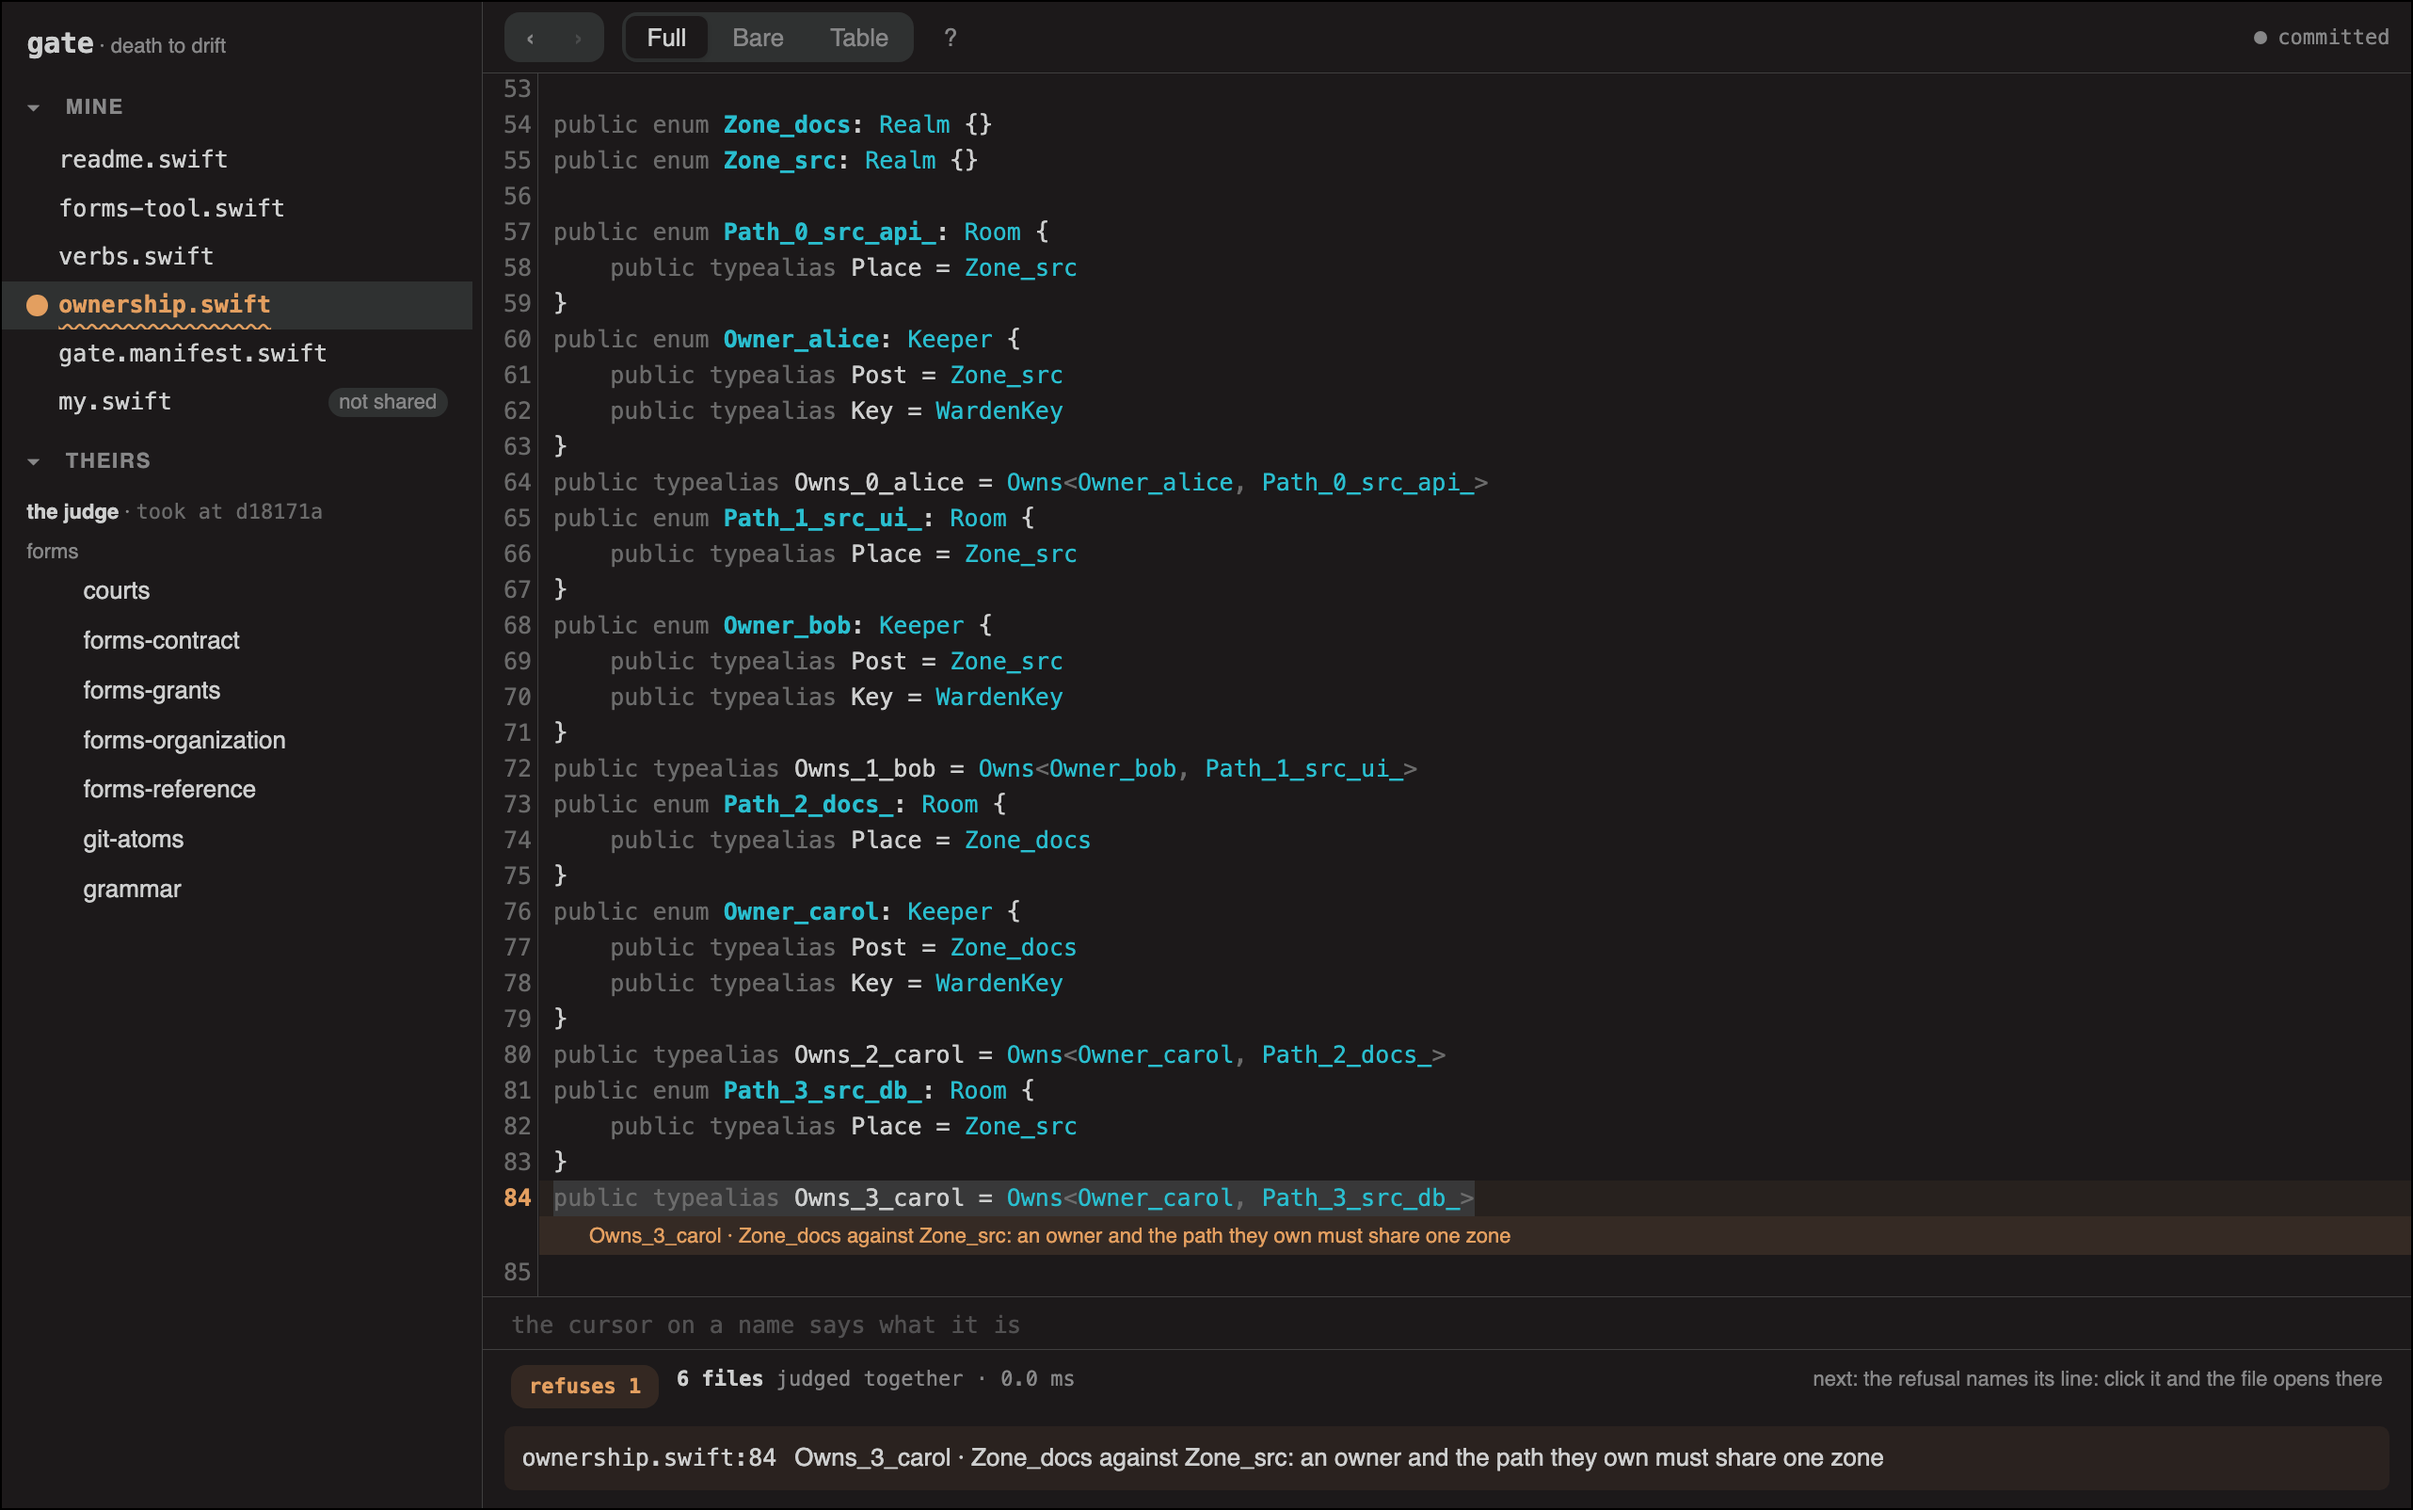
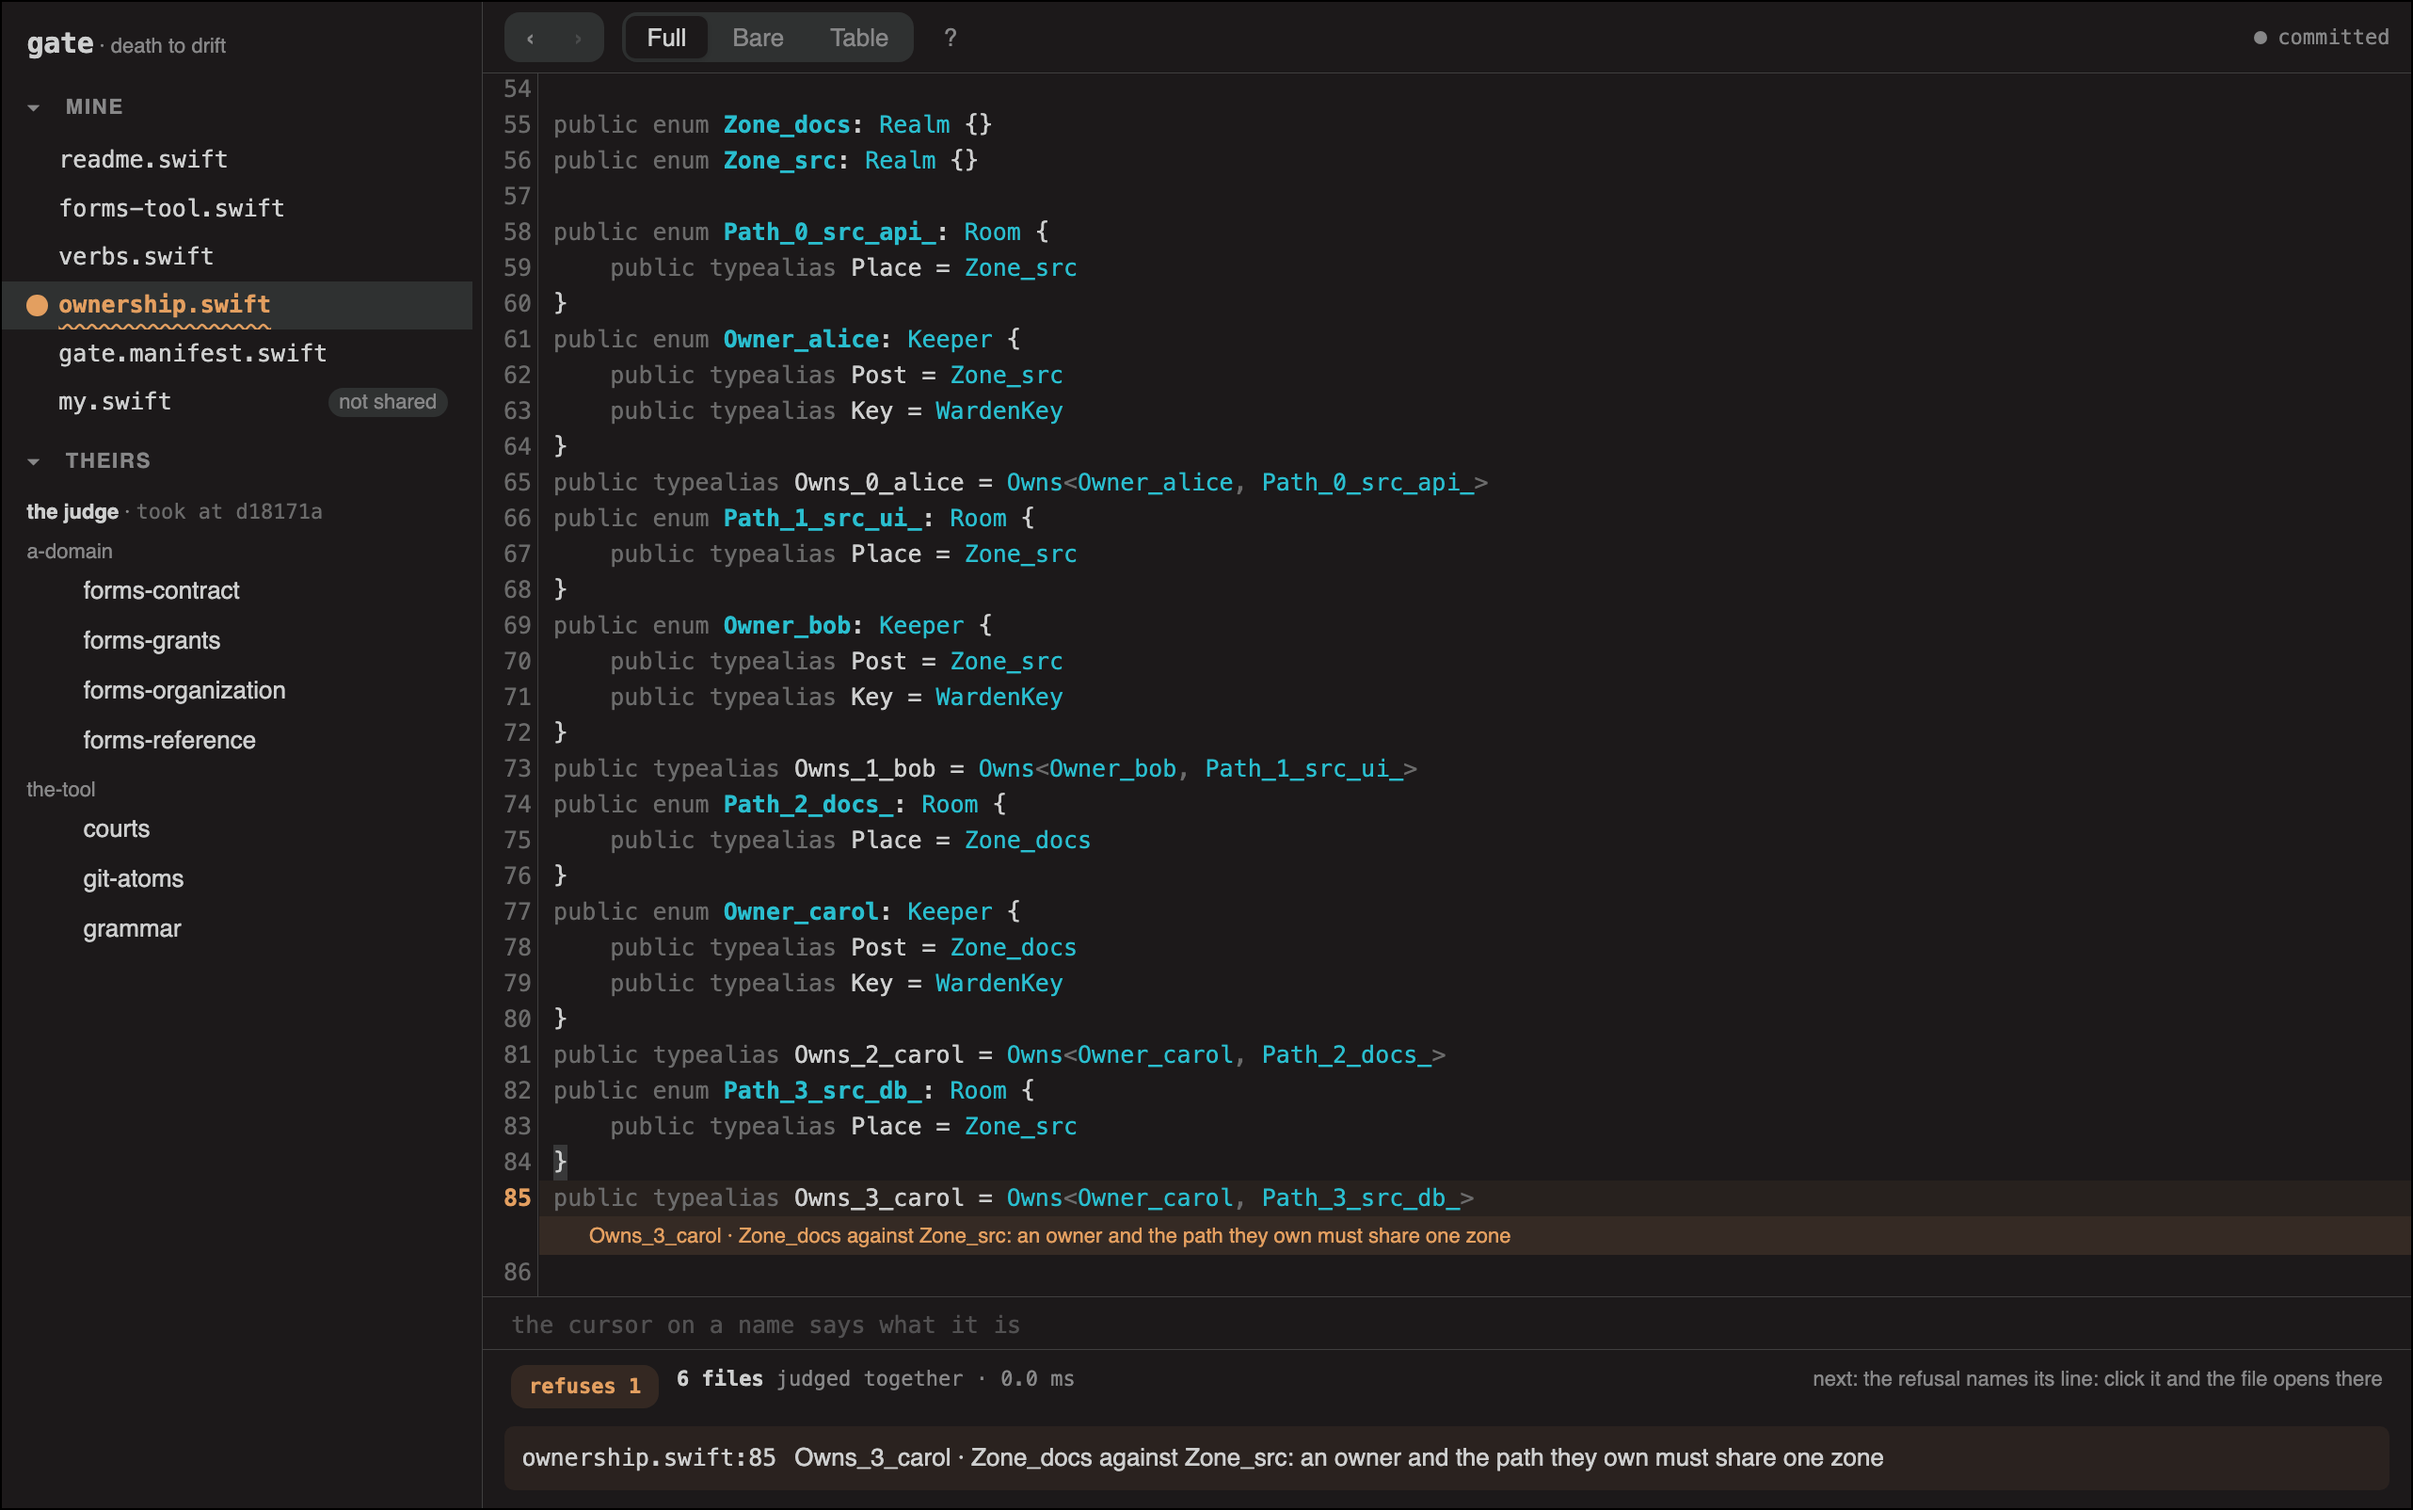
shelf: every page says whose voice it speaks
The role says which court reads a page and whether it is this tool's own
furniture. Under `forms` two unlike things went on standing together:
the grammar a world of yours is written in, and the grammar this tool's
own verbs and courts are written in. An operator opening the rail asks
which of this came with the tool, and the role column answers a question
they did not ask.

Every page states its sort in its third line, beside its role: a-domain
for the words a world of yours is written in, the-tool for what gate's
own verbs and courts are written in, the-bench for the page they are read
on, the-reader for what a repository is met with. The list is closed at
four, so what taking this tool puts on somebody's repository stays a list
they can read to the end rather than a feeling about the shape of a name.

Two refusals hold it, both at stdlib/<page>.swift:3: a page silent about
whose voice it speaks, and a word outside the four, named with the whole
list in the claim so the page is corrected from the refusal alone. The
map goes out beside the roles on `gate stdlib` and on /shelf, and the
rail groups by it: a-domain, the-tool, the-bench, the-reader, every
heading the file's own word and the order the one thing the page decides.

Negative planted on copies of both carriers: the guard walking nothing
and the rail sorting by role again turn exactly four checks red, three of
them the new ones and the fourth the cover's picture, which is the pair
[…]

Changed region(s): [[0.2184, 0.7481, 0.624, 0.8105], [0.0312, 0.3741, 0.1248, 0.6234]]

diff --git a/web/ui.html b/web/ui.html
@@ -1018,14 +1018,43 @@ async function buildJournal() {
 // The cut is the role, which each file states in its own second line — not the
 // shape of its name. `git-atoms` is here and is not a forms file: it is what your
 // merge policy is written in.
+// ── AND THE READING ORDER OF THE GROUPS, WHICH IS ALL THIS LIST IS. What each
+// sort MEANS is the file's own word and is never looked up here; in which order
+// a reader meets them is a question about this page, so it is answered on this
+// page: what your repository is written in first, the tool that judges it next,
+// then the bench, then the letter. A sort this page has not heard of is not
+// dropped — it goes last under its own name, because a page that filed an
+// unknown word under nothing would be the page deciding what the shelf may say.
+const SHELF_SORTS = ["a-domain", "the-tool", "the-bench", "the-reader"];
+function shelfRank(sort) {
+    const i = SHELF_SORTS.indexOf(sort);
+    return i < 0 ? SHELF_SORTS.length : i;
+}
+// what a group means, on the row rather than in the heading: a heading that
+// explained itself would be this page saying in its own words what the file
+// already says in one, and a sort with no sentence here still gets a row.
+const SHELF_MEANS = {
+    "a-domain": "Words the judge carries, printed as Swift: what a world of yours and your "
+        + "policy are written in. Your world speaks these with no such file present, and "
+        + "editing a copy adds no word to the language.",
+    "the-tool": "The grammar this tool's own verbs and courts are written in: how gate "
+        + "describes itself, judged by the same court as everything else. Read it to see "
+        + "what the tool claims about itself, not to write your world in.",
+    "the-bench": "A judged world this bench itself runs under: the palette it paints with, the "
+        + "ladder of lengths it spaces itself on, the atoms its surface is made of. "
+        + "Taken with the tool, like everything else here.",
+    "the-reader": "The letter a repository is met with: prose, judged as a world like the rest, "
+        + "so what it promises is held to the files it describes.",
+};
 async function buildShelf() {
     const host = document.getElementById("shelf-host");
     let mods = [];
     let roles = {};
+    let speaks = {};
     try {
         const shelf = await (await fetch("/shelf")).json();
-        mods = shelf.modules || []; roles = shelf.roles || {};
-        mods.sort((a, b) => (roles[a] || "").localeCompare(roles[b] || "")
+        mods = shelf.modules || []; roles = shelf.roles || {}; speaks = shelf.speaks || {};
+        mods.sort((a, b) => shelfRank(speaks[a]) - shelfRank(speaks[b])
                             || a.localeCompare(b));
     } catch { mods = []; }
     host.innerHTML = "";
@@ -1057,32 +1086,34 @@ async function buildShelf() {
     // world can be written in. The ones you actually speak are in `mine`, as
     // your own copies — so the panel answers "which of these am I using?" by
     // which side of the rail they stand on, with nothing added to explain it.
-    let shownRole = null;
+    // ── AND THE CUT IS THE SORT, NOT THE ROLE. The role says which court reads a
+    // file, and by that word `forms` covered two unlike things at once: the
+    // grammar YOUR world is written in, and the grammar this tool's own verbs
+    // and courts are written in. An operator opening this rail asks which of it
+    // is about their repository — so the group is the sort each page states in
+    // its third line, and what came with the tool is a list they can read to the
+    // end rather than a feeling about the shape of a name.
+    let shownSort = null;
     for (const m of mods) {
         if (alreadyMine.has(m) || roles[m] === "gate's own") continue;
-        const role = roles[m] || "taken";
-        if (role !== shownRole) {
-            shownRole = role;
+        const sort = speaks[m] || "taken";
+        if (sort !== shownSort) {
+            shownSort = sort;
             const head = document.createElement("div");
             head.className = "folder caption";
             // the word is the file's own, never a sentence written here: a lookup
-            // on the two roles this tool happens to know is that tool learning a
-            // vocabulary, and a role it had not heard of would fall through to
-            // nothing. What each group MEANS is on every row's own hover, said
-            // by the file; the heading only has to name the group.
-            head.textContent = role;
+            // on the sorts this tool happens to know is that tool learning a
+            // vocabulary, and a sort it had not heard of would fall through to
+            // nothing. What each group MEANS is on every row's own hover; the
+            // heading only has to name the group.
+            head.textContent = sort;
             host.appendChild(head);
         }
         const r = document.createElement("div");
         // a file row is a file row: the rail has one shape for one thing
         r.className = "file nested";
-        r.title = (roles[m] === "forms"
-            ? "Words the judge carries, printed as Swift: what your world and your policy are "
-              + "written in. Your world speaks these with no such file present, and editing a "
-              + "copy adds no word to the language."
-            : "A judged world this bench itself runs under: the palette it paints with, the "
-              + "ladder of lengths it spaces itself on, the atoms its surface is made of. "
-              + "Taken with the tool, like everything else here.");
+        r.title = (SHELF_MEANS[sort]
+            || "Taken with the tool, and judged like every other world here.");
         r.innerHTML = '<span class="dot"></span><span class="name">' + esc(m) + "</span>";
         r.onclick = () => openShelf(m);
         host.appendChild(r);

diff --git a/stdlib/forms-tool.swift b/stdlib/forms-tool.swift
@@ -1,5 +1,6 @@
 // gate stdlib forms-tool v1: the types readme.swift and verbs.swift are written in
 // role: forms
+// speaks-for: the-tool
 // A verb is a record like any other: what it touches, and which court it calls.
 // These axes make a reference table a world rather than a list. One law stands
 // over them: a verb that changes nothing may be run on anybody's clone, at any

diff --git a/stdlib/bench-palette.swift b/stdlib/bench-palette.swift
@@ -1,5 +1,6 @@
 // gate stdlib bench-palette v1: the colours the page may use, with contrast checks
 // role: gate's own
+// speaks-for: the-bench
 // Levels of light on a 0..1000 scale (a tenth of a percent), spelled on this
 // file's own ladder from Unit: the built-in U stay symbolic, so a world
 // spells its own ladder. The scale is a tenth of a percent and not a percent

diff --git a/stdlib/bench-registers.swift b/stdlib/bench-registers.swift
@@ -1,5 +1,6 @@
 // gate stdlib bench-registers v1: the type sizes the page uses, as declarations
 // role: gate's own
+// speaks-for: the-bench
 // A register is what a thing IS, said once: a face, a size, and how far one
 // line stands from the next. The page had been restating them instead:
 // nineteen font declarations where four registers were declared, half of them

diff --git a/stdlib/bench-atoms.swift b/stdlib/bench-atoms.swift
@@ -1,5 +1,6 @@
 // gate stdlib bench-atoms v1: the bench's own settings, as declarations
 // role: gate's own
+// speaks-for: the-bench
 // The bench is not configured by a toggle but by a claim in your personal world:
 // MyBench says which theme the page uses, MyJournal says what the history
 // shows. The values live here, and a value from nowhere else is named on its

diff --git a/stdlib/bench-metrics.swift b/stdlib/bench-metrics.swift
@@ -1,5 +1,6 @@
 // gate stdlib bench-metrics v1: the spacing steps, and a check on every gap
 // role: gate's own
+// speaks-for: the-bench
 // The base is the reading line: an instrument for reading measures its
 // spacing in the letter it sets. One step is a tenth of that line, and every
 // gap on the page is a whole number of steps, so a length is spelled the way

diff --git a/stdlib/forms-grants.swift b/stdlib/forms-grants.swift
@@ -1,5 +1,6 @@
 // gate stdlib forms-grants v1: who may read which document, as records
 // role: forms
+// speaks-for: a-domain
 // (exemplar: theory corpus Sources/Examples/Grants.swift @ 0fd0b38).
 // Realms are declared atoms, and the fourth is one line rather than a schema change.
 // A verb set is a protocol class, containment is conformance, and one gate

diff --git a/stdlib/forms-contract.swift b/stdlib/forms-contract.swift
@@ -1,5 +1,6 @@
 // gate stdlib forms-contract v1: an API contract and the clients that carry it
 // role: forms
+// speaks-for: a-domain
 //
 // A contract is written once and copied into a server and into every client
 // library, and the copies drift apart quietly. Types do not prevent it: they

diff --git a/stdlib/forms-reference.swift b/stdlib/forms-reference.swift
@@ -1,5 +1,6 @@
 // gate stdlib forms-reference v1: a reference and its target, judged together
 // role: forms
+// speaks-for: a-domain
 //
 // Everybody has this drift and nobody checks it: code cites a
 // ticket, a ticket is closed, and the citation stays. Nothing in either system

diff --git a/stdlib/grammar.swift b/stdlib/grammar.swift
@@ -1,5 +1,6 @@
 // gate stdlib grammar v1: the scopes and atoms the bench walks, as records
 // role: forms
+// speaks-for: the-tool
 //
 // The walk is agnostic: a scope opens, a scope closes, that is all it
 // knows, and swift is what it reads. WHICH scopes exist, how each one is

diff --git a/stdlib/courts.swift b/stdlib/courts.swift
@@ -1,5 +1,6 @@
 // gate stdlib courts v1: every court this tool ships, as records
 // role: forms
+// speaks-for: the-tool
 //
 // The judge exists twice on purpose: a native binary built from the theory
 // corpus, and a port that runs where the binary cannot, in a browser and on

diff --git a/stdlib/git-atoms.swift b/stdlib/git-atoms.swift
@@ -1,5 +1,6 @@
 // gate stdlib git-atoms v1: git's own objects as atoms for your records
 // role: forms
+// speaks-for: the-tool
 // The substrate's own objects become atoms: judged records reference them.
 // Enforcement stays with git and the platform. These are the names.
 
